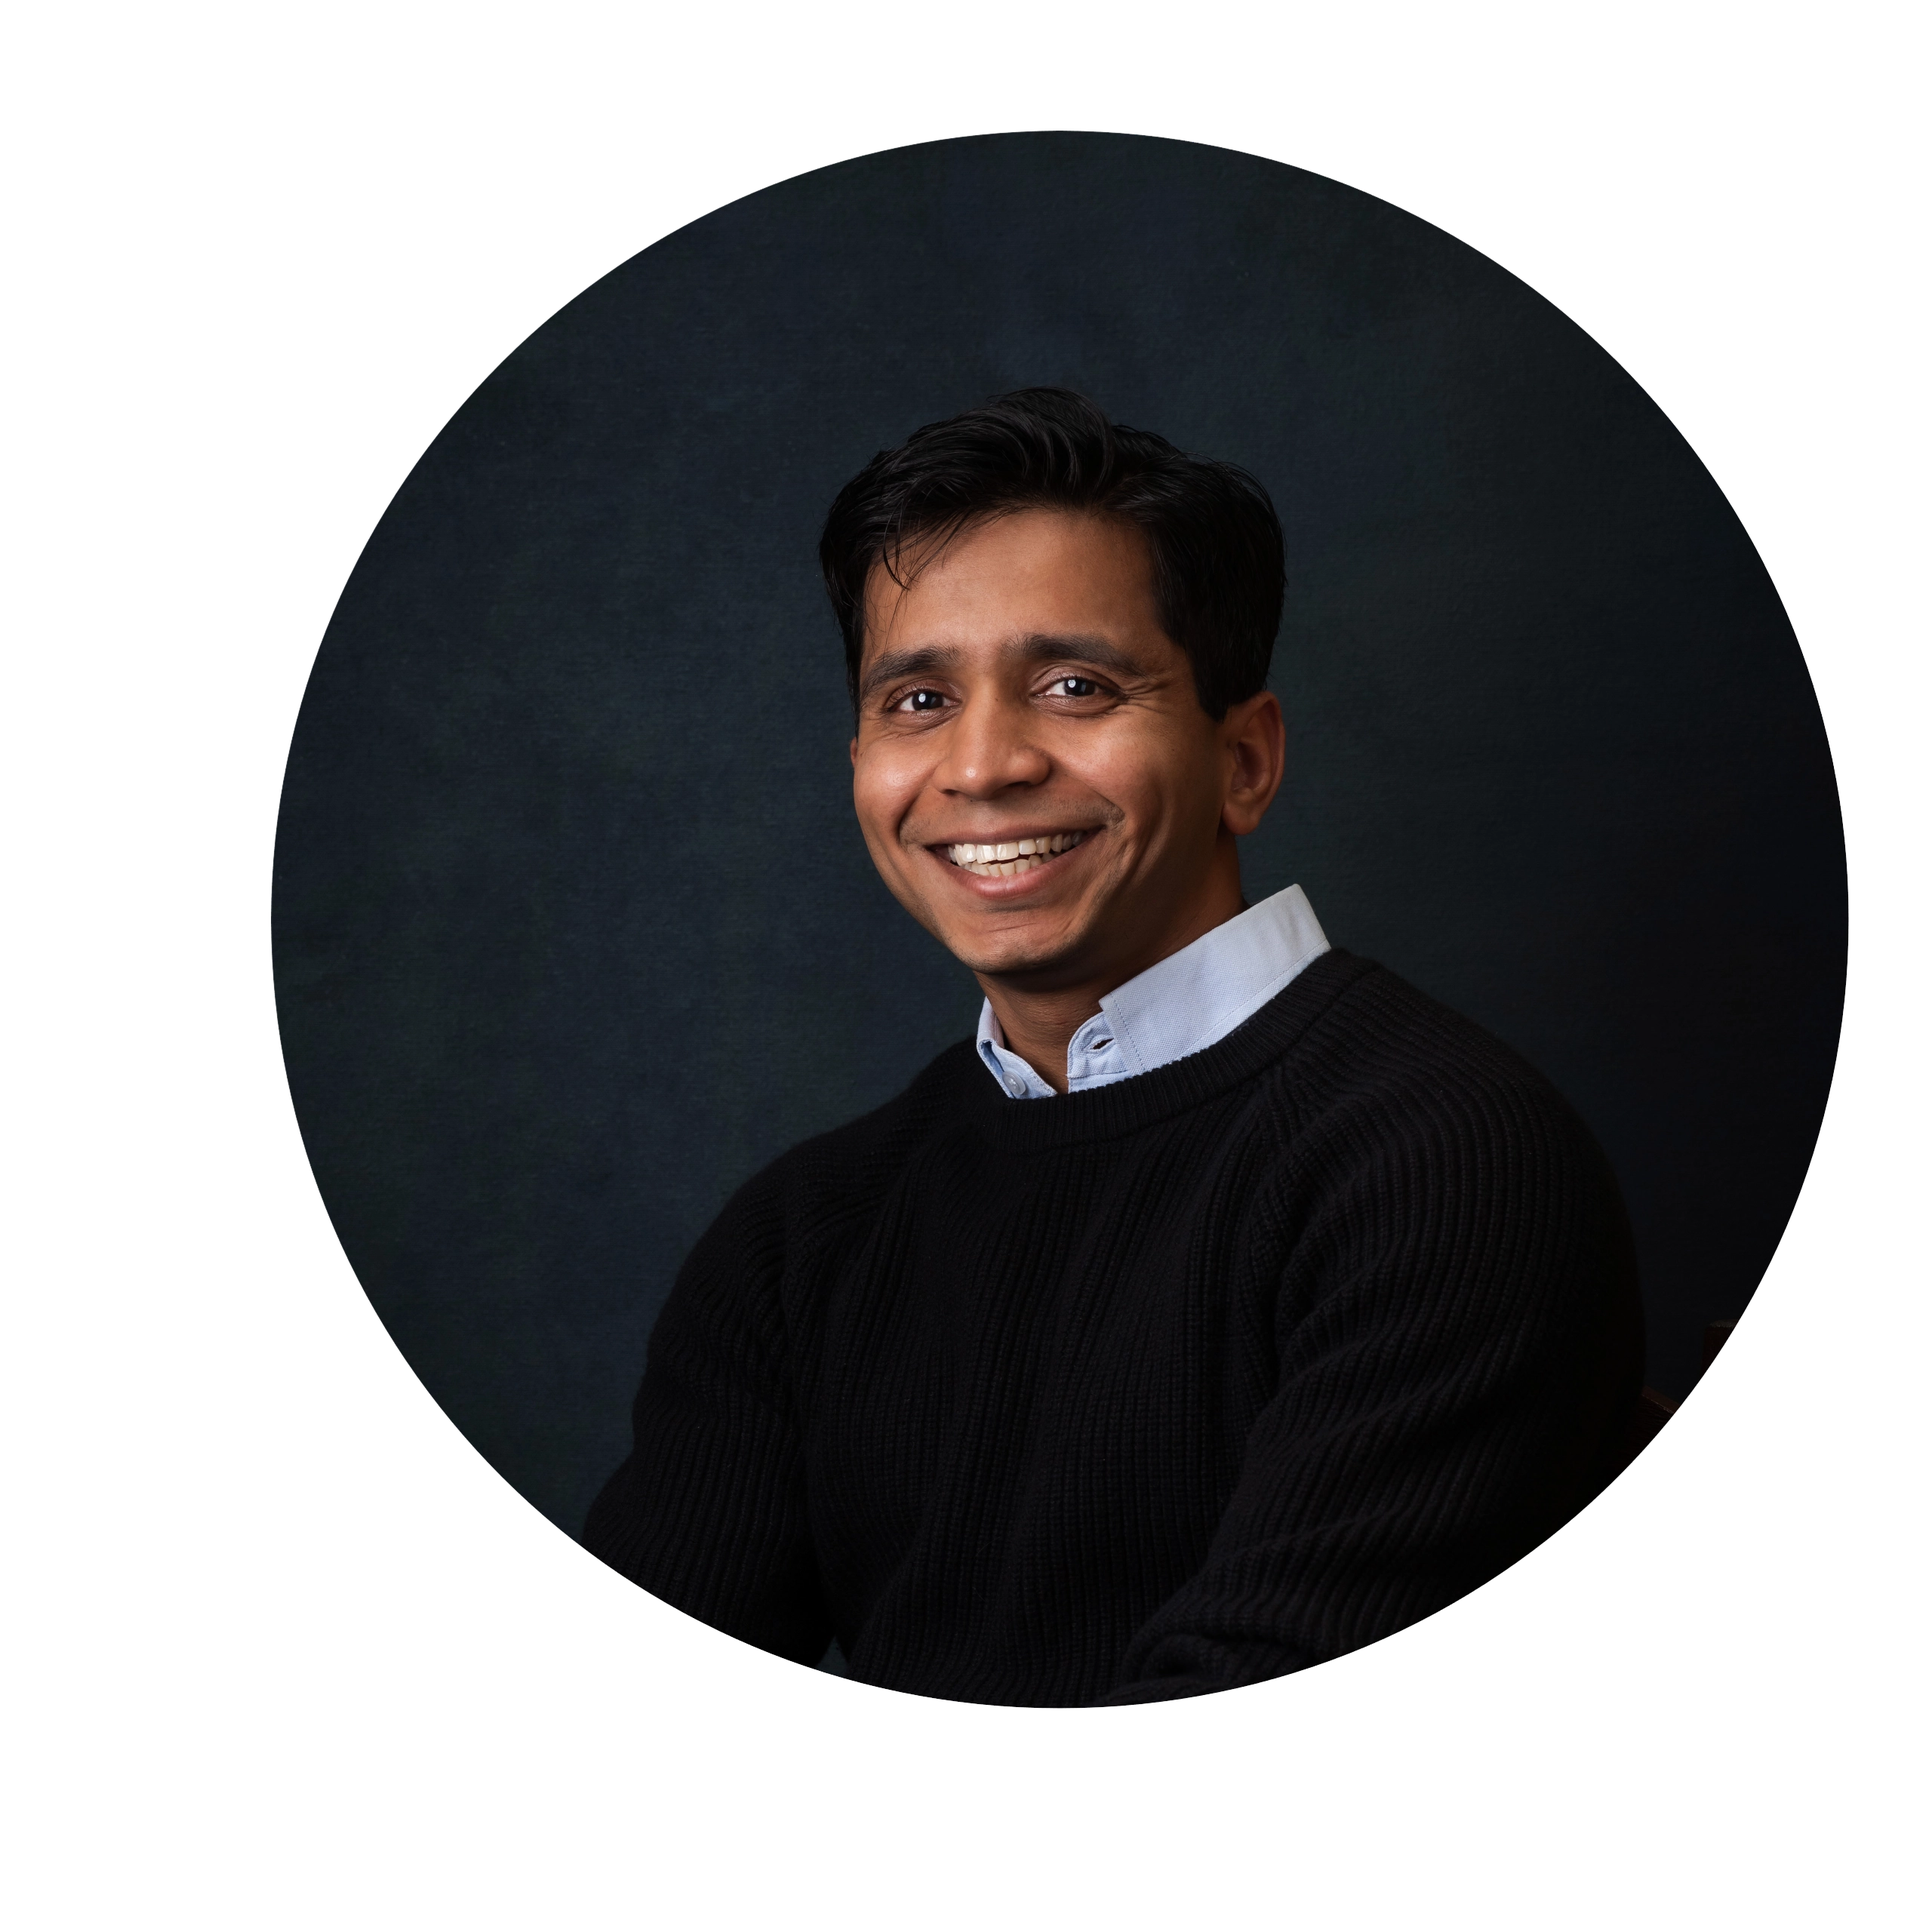
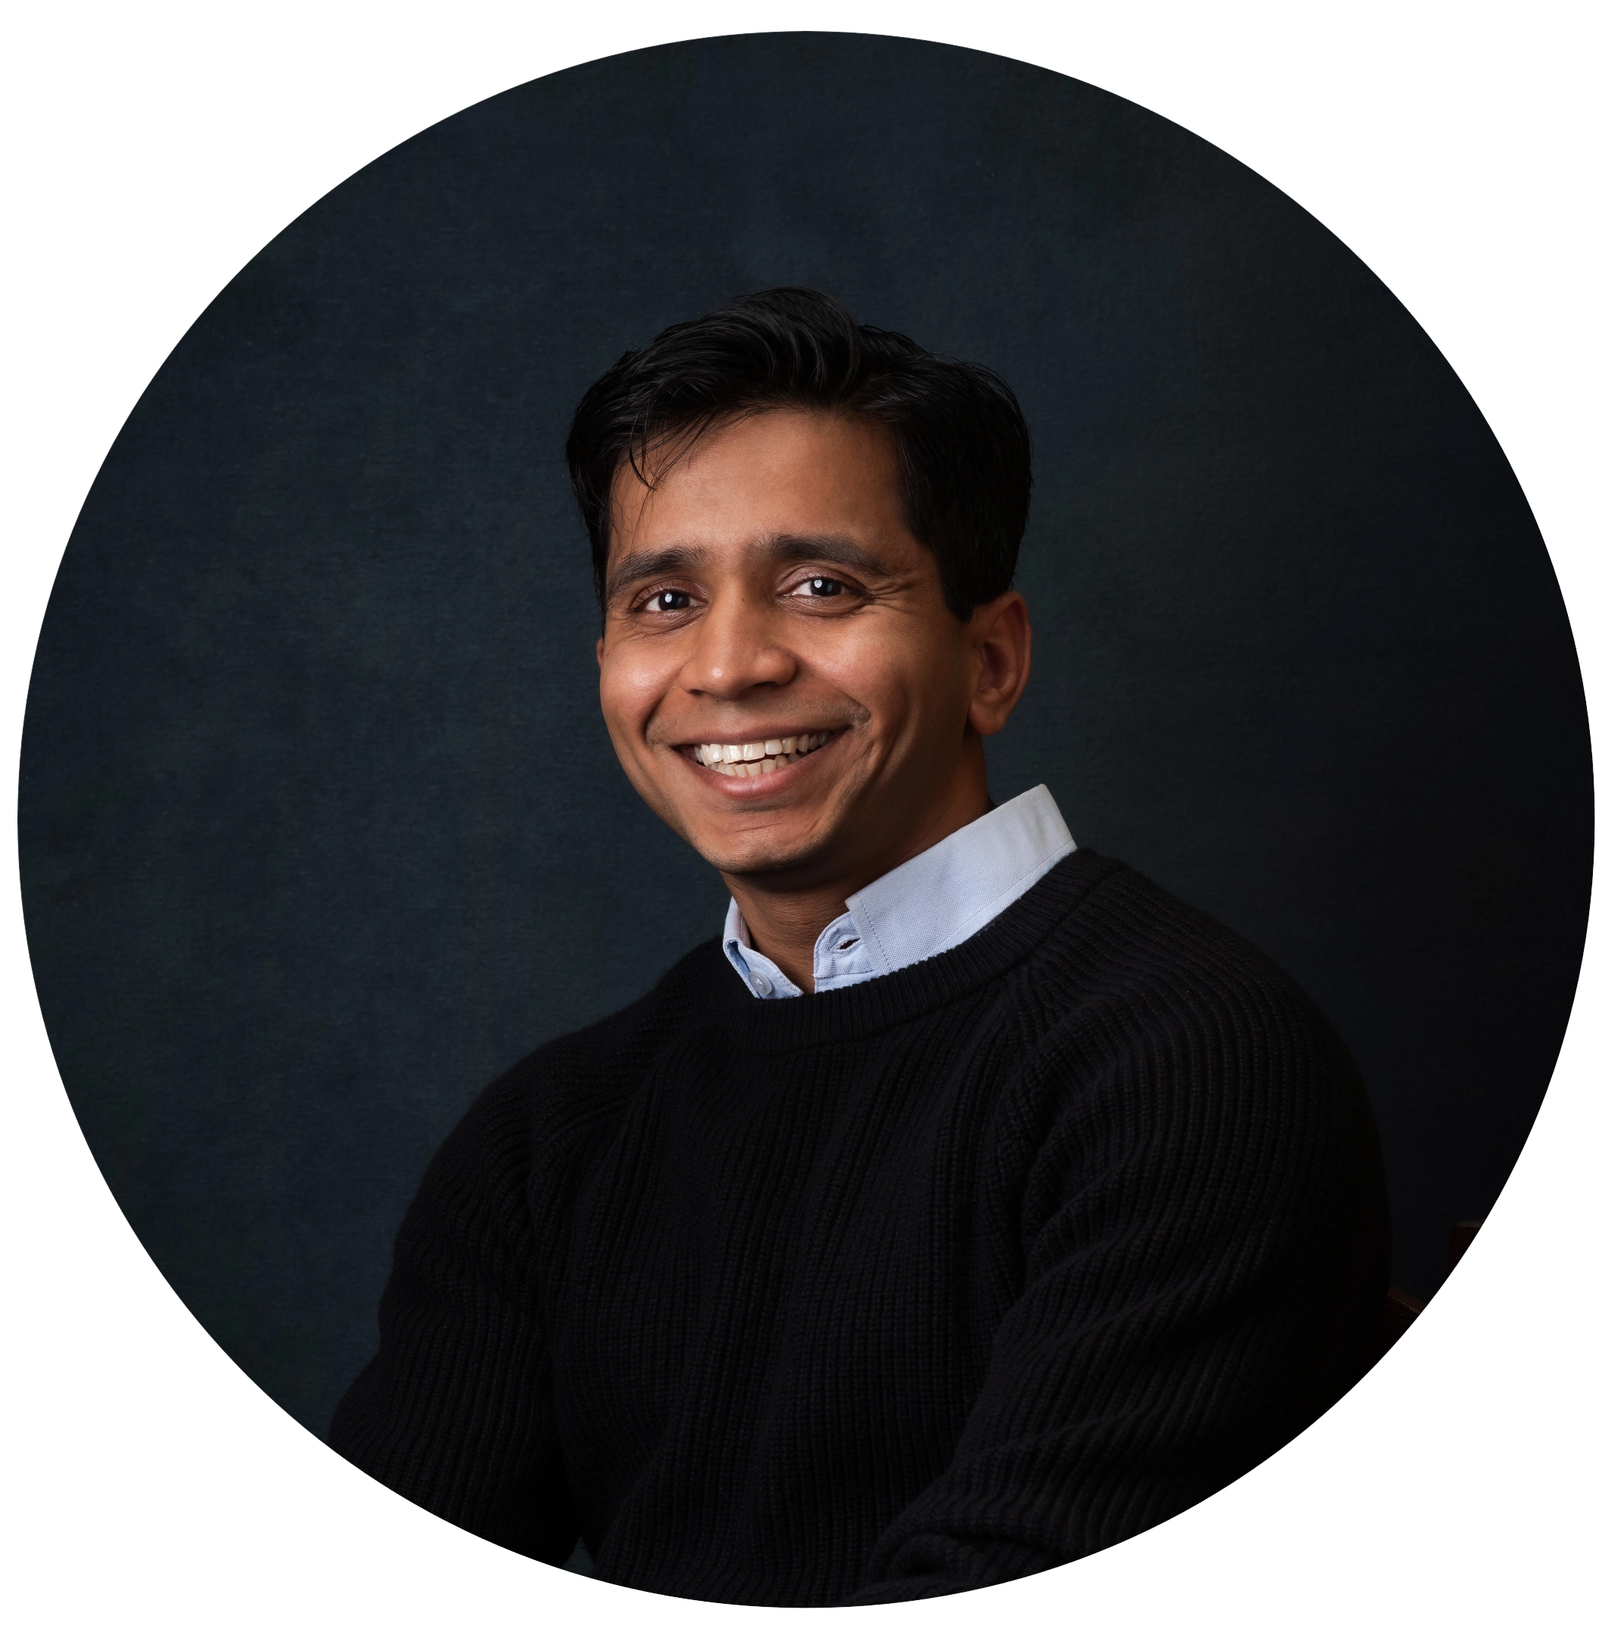
20220517d

diff --git a/index.html b/index.html
@@ -61,7 +61,7 @@
 							<article id="about">
 								<center><h2 class="major">About Me</h2></center>
 																<!-- <center class="image main"><img src="images/self_pic.png" alt="This is me!" style="width:200px;height:200px;" /></center> -->
-																<center class="image main" Hi! Thank you for visiting my webpage.><img src="images/self_pic_5.webp" alt="This is me!" style="width:40%;" /></center>
+																<center class="image main" Hi! Thank you for visiting my webpage.><img src="images/self_pic_5.webp" alt="This is me!" style="width:35%;" /></center>
 
 																
 								<section>
